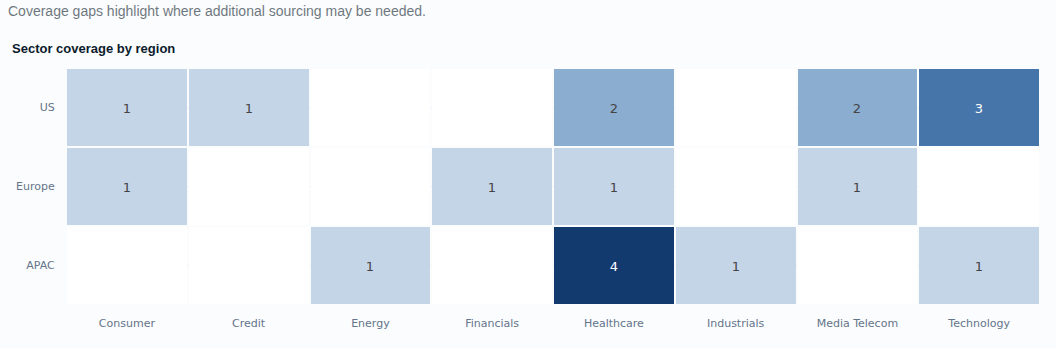
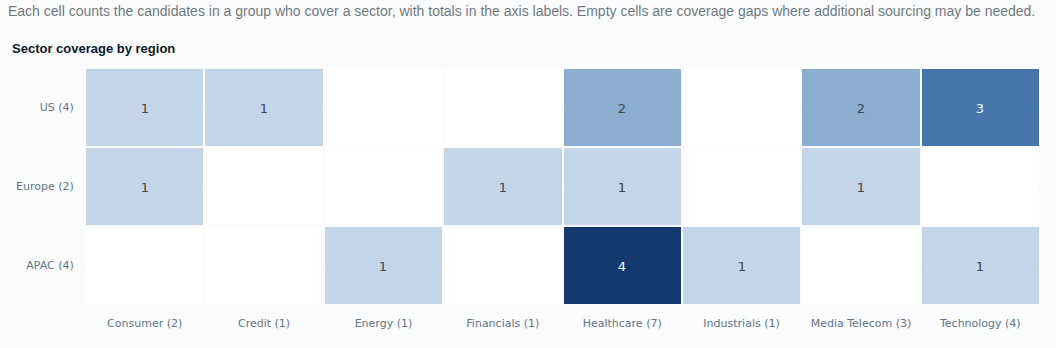
Add files via upload

diff --git a/app.py b/app.py
@@ -2519,30 +2519,95 @@ with tab_search:
 
 with tab_insights:
     st.markdown("#### Talent pool insights")
+    st.caption(
+        "How the current candidate pool is distributed: where coverage "
+        "is deep, where it is thin, and which open roles are hardest to "
+        "fill. Charts respect the sidebar filters."
+    )
+
+    # -- Requisition coverage: the concrete question first ---------------
+    # "Which roles can this pool actually staff?" answered per posting,
+    # before any chart: qualified / near-match counts for every saved
+    # requisition, with the thinnest bench called out.
+    section("Requisition coverage",
+            "For each saved job posting: how many candidates in the pool "
+            "meet every hard requirement (qualified), and how many miss "
+            "exactly one (near match). Counts are for the full pool, "
+            "before sidebar filters.")
+    # Selectable, so the row scales past a handful of postings: every
+    # requisition is shown by default, and a user tracking two roles can
+    # narrow to just those.
+    _req_pick = st.multiselect(
+        "Requisitions to show",
+        options=[sp["id"] for sp in store.items],
+        default=[sp["id"] for sp in store.items],
+        format_func=lambda rid: next(
+            sp["title"] for sp in store.items if sp["id"] == rid),
+        label_visibility="collapsed",
+    )
+    _shown = [sp for sp in store.items if sp["id"] in _req_pick]
+    if not _shown:
+        st.caption("Pick at least one requisition to see its coverage.")
+    _unfilled = []
+    _PER_ROW = 4
+    _req_cols = []
+    for _i in range(0, len(_shown), _PER_ROW):
+        _req_cols.extend(st.columns(_PER_ROW))
+    for _col, _spec in zip(_req_cols, _shown):
+        _ex, _nr = match_all(candidates, _spec, store=store)
+        _title = _spec["title"]
+        _col.metric(
+            _title if len(_title) <= 34 else _title[:32] + "…",
+            f"{len(_ex)} qualified",
+            delta=f"{len(_nr)} near match" + ("es" if len(_nr) != 1 else ""),
+            delta_color="off",
+            help=f"{_spec.get('source', '')}. Qualified candidates meet "
+                 "every hard requirement; near matches miss exactly one.",
+        )
+        if not _ex:
+            _unfilled.append((_title, len(_nr)))
+    if _unfilled:
+        _parts = "; ".join(
+            f"<b>{t}</b> ({n} near match" + ("es" if n != 1 else "") + ")"
+            for t, n in _unfilled)
+        st.markdown(
+            f"<span class='pill pill-note'>hardest to fill</span> "
+            f"<span style='font-size:12.5px;color:{MUTED}'>"
+            f"No candidate in the pool meets every requirement for "
+            f"{_parts}. Open a role in Candidates to see what relaxing "
+            "each requirement would admit.</span>",
+            unsafe_allow_html=True,
+        )
+    st.markdown("---")
 
     ctrl1, ctrl2, ctrl3 = st.columns([1.2, 1.2, 1.6])
     chart_quality = ctrl1.select_slider(
-        "Minimum parse confidence for these charts",
+        "Minimum resume quality",
         options=["low", "medium", "high"], value="low",
-        help="Counts built from thin records overstate the bench.",
+        help="Exclude candidates whose resumes parsed below this quality "
+             "level, so thin records do not inflate the counts.",
     )
     group_by = ctrl2.selectbox(
-        "Break down by", ["Region", "Market side", "Seniority (investing)"],
+        "Group rows by", ["Region", "Market side", "Seniority (investing)"],
         help="The row dimension of the coverage matrix.",
     )
     charted = [c for c in filtered
                if BAND_ORDER[c["quality"]["band"]] >= BAND_ORDER[chart_quality]]
     ctrl3.markdown(
         f"<div style='padding-top:26px;color:{MUTED};font-size:12.5px'>"
-        f"<b style='color:{NAVY}'>{len(charted)}</b> of {len(candidates)} "
-        "candidates charted, after the sidebar refinements and this threshold."
-        "</div>",
+        f"Showing <b style='color:{NAVY}'>{len(charted)}</b> of "
+        f"{len(candidates)} candidates (sidebar filters and quality "
+        "threshold applied).</div>",
         unsafe_allow_html=True,
     )
     if not charted:
         st.info("No candidates left at this threshold.")
     else:
-        st.caption("Coverage gaps highlight where additional sourcing may be needed.")
+        st.caption(
+            "Each cell counts the candidates in a group who cover a "
+            "sector, with totals in the axis labels. Empty cells are "
+            "coverage gaps where additional sourcing may be needed."
+        )
         GROUP_KEY = {
             "Region": lambda c: c.get("region"),
             "Market side": lambda c: label_of(c.get("market_side")),
@@ -2556,8 +2621,14 @@ with tab_insights:
             matrix = [[sum(1 for c in charted
                            if GROUP_KEY(c) == g and s in c.get("sectors", []))
                        for s in sectors] for g in groups]
+            _col_tot = [sum(1 for c in charted if s in c.get("sectors", []))
+                        for s in sectors]
+            _row_tot = [sum(1 for c in charted if GROUP_KEY(c) == g)
+                        for g in groups]
             fig = go.Figure(go.Heatmap(
-                z=matrix, x=[label_of(s) for s in sectors], y=groups,
+                z=matrix,
+                x=[f"{label_of(s)} ({t})" for s, t in zip(sectors, _col_tot)],
+                y=[f"{g} ({t})" for g, t in zip(groups, _row_tot)],
                 colorscale=[[0.0, SURFACE], [0.001, SEQ[0]]] + [
                     [0.001 + 0.999 * i / (len(SEQ) - 1), col]
                     for i, col in enumerate(SEQ)],

diff --git a/tools/build_notebook.py b/tools/build_notebook.py
@@ -91,10 +91,10 @@ judgment rather than replacing it.
 
 ### 2 · Trusted resume data: machine speed with screening-level checks
 
-The challenge is not simply extracting information from a resume; it is
-making sure the extracted information is complete, accurate and usable
-for downstream decisions. The pipeline therefore treats resume parsing
-as a data-quality problem. Every important classification is linked to
+The challenge is not just extracting resume information, but ensuring
+it is complete, accurate, and usable for downstream decisions.
+Therefore, the pipeline treats resume parsing as a data-quality
+problem. Every important classification is linked to
 verbatim evidence from the source document, the system does not infer
 missing information, and extracted claims are checked against the
 original text. Parsing confidence and extraction issues are surfaced
@@ -713,11 +713,19 @@ each near miss's single gap and computes what each widening would admit:
 
 ### Talent pool insights
 
-The coverage heatmap maps the bench: regions by sectors, each cell the
-number of candidates covering both. Coverage gaps show where
-additional sourcing is needed, so the chart doubles as a sourcing
-to-do list. A parse-confidence threshold above it keeps thin records out
-of the counts:
+The tab answers the concrete question first: **requisition coverage**.
+For every saved posting it shows how many candidates qualify and how
+many are near matches, the set of postings is selectable so the row
+scales as requisitions grow, and roles no one qualifies for are called
+out automatically:
+
+![Requisition coverage](https://raw.githubusercontent.com/yc4379-commits/m-case-study/main/docs/tour_req_coverage.png)
+
+The coverage heatmap then maps the bench: regions by sectors, each cell
+the number of candidates covering both, with group totals in the axis
+labels. Coverage gaps show where additional sourcing is needed, so the
+chart doubles as a sourcing to-do list. A resume-quality threshold above
+it keeps thin records out of the counts:
 
 ![Sector coverage by region](https://raw.githubusercontent.com/yc4379-commits/m-case-study/main/docs/tour_heatmap.png)
 
